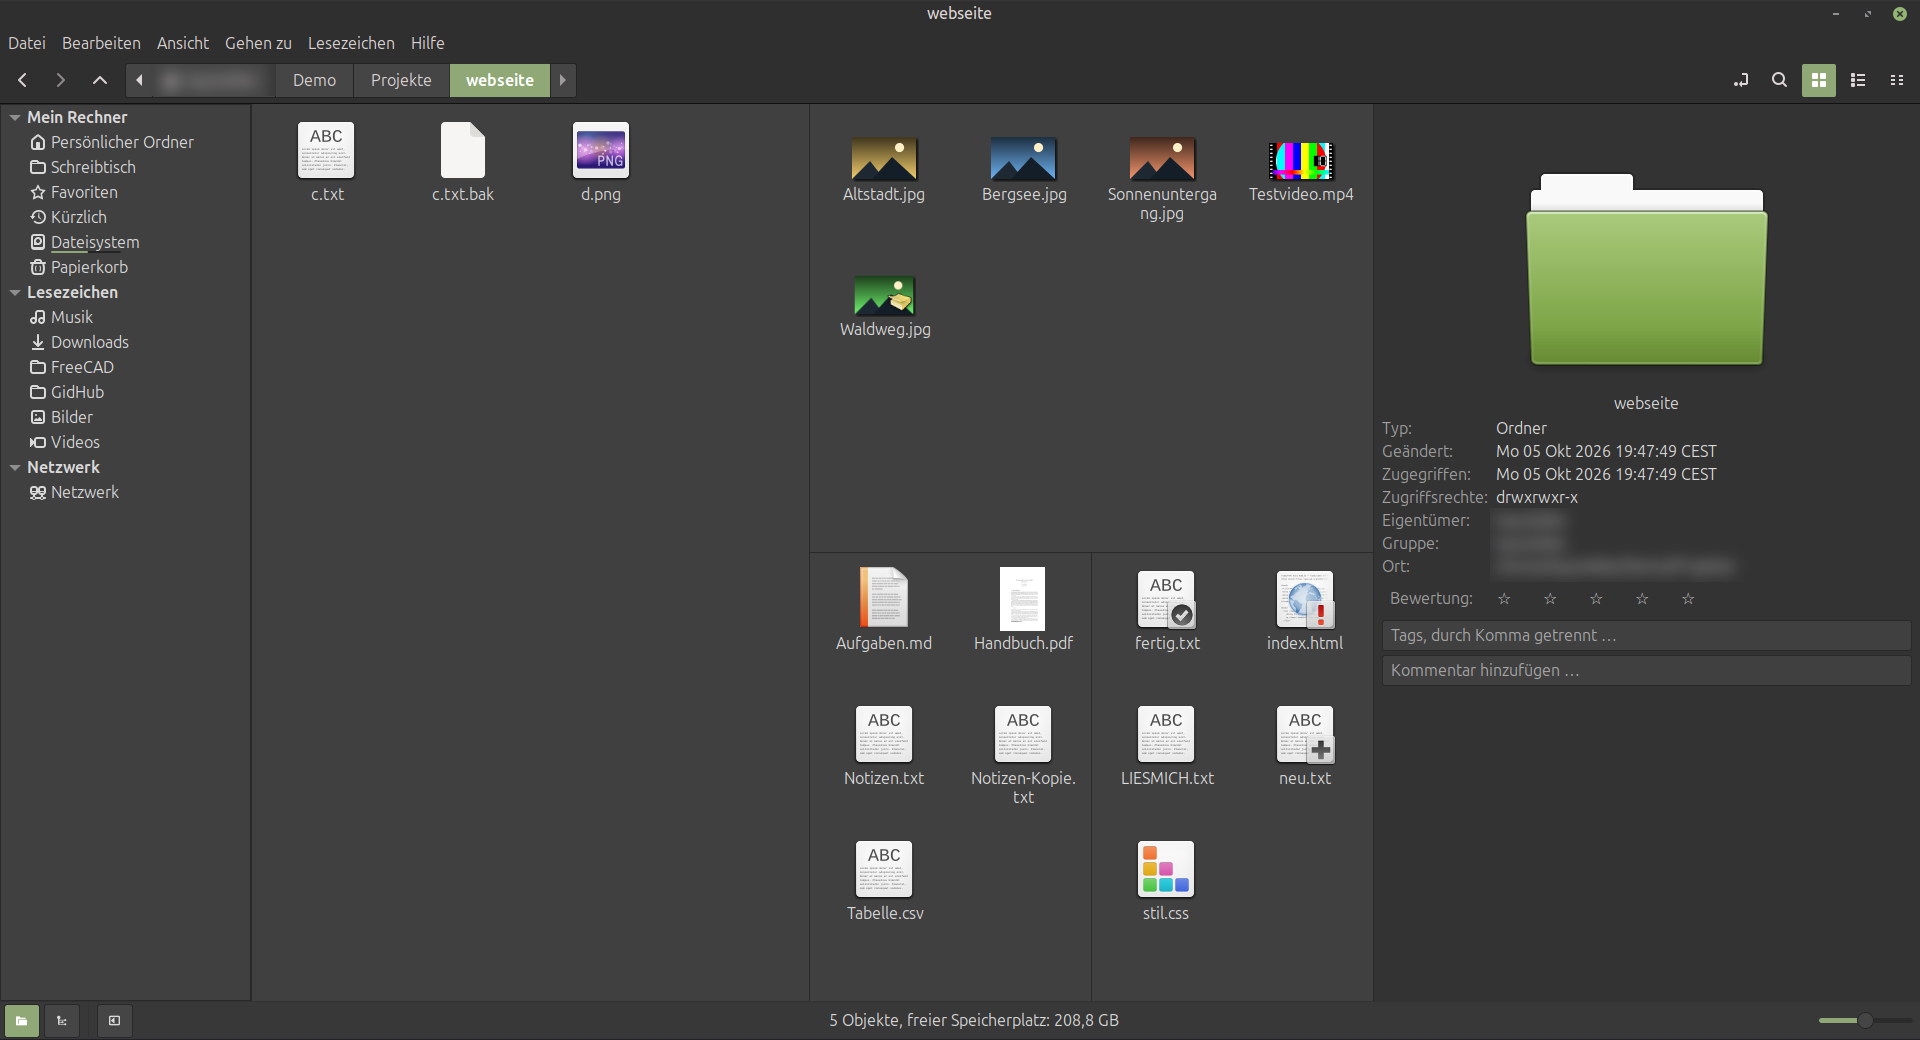
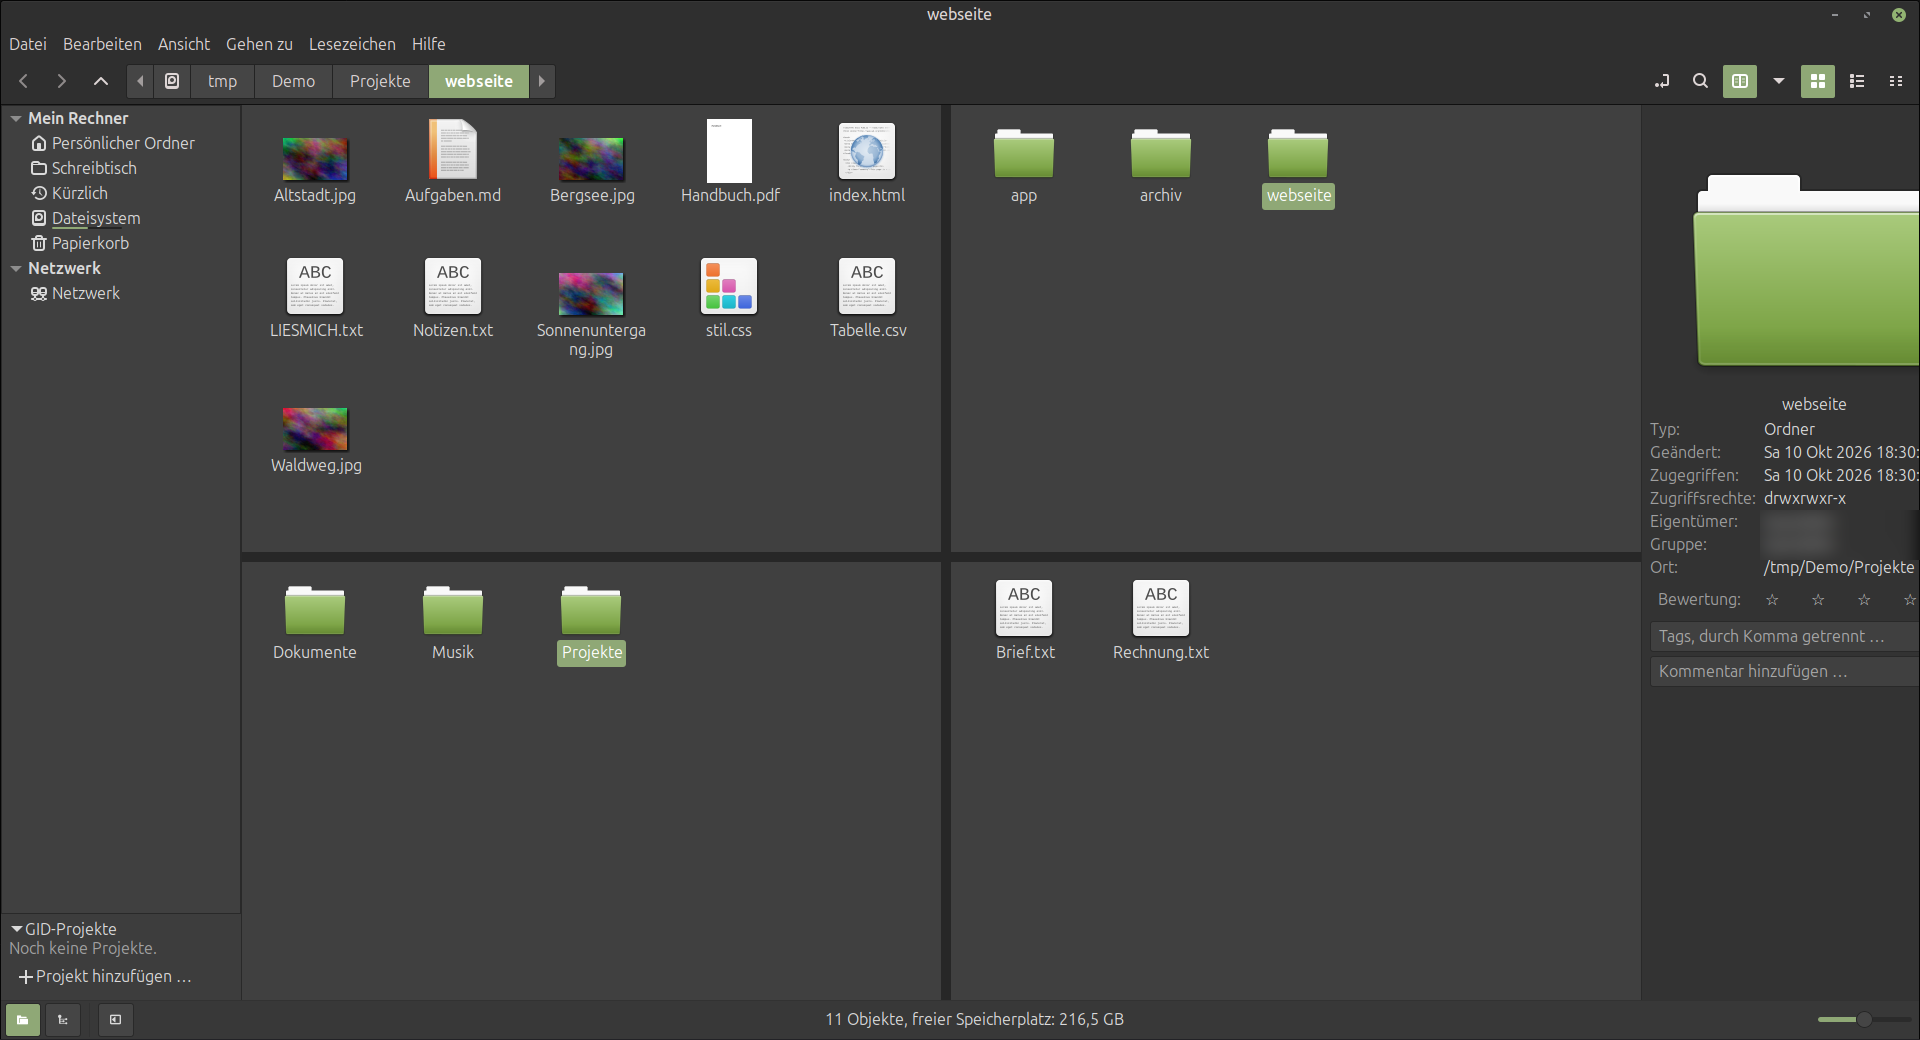
README: Bilder zur geteilten Ansicht und Übersicht neu, Layout-Auswahl ergänzt
Neu aufgenommen mit dem aktuellen Programm: Übersicht, Menü Geteilte Ansicht
(mit Layout-Untermenü), Vier Bereiche (mit Abstand), Layout-Auswahl (neu).
Text zu Layouts, Springen, Tauschen und Wiederherstellen ergänzt.

diff --git a/README.md b/README.md
@@ -174,11 +174,12 @@ Im Ordner selbst zeigen **Overlay-Symbole** den Git-Status jeder Datei (Häkchen
 
 ![Massenumbenennung mit Suchen, Ersetzen und Nummerierung](docs/bilder/panel-massenumbenennung.png)
 
-**Geteilte Ansicht und Arbeitsbereiche** – bis zu vier Bereiche nebeneinander; das gesamte Layout lässt sich als Arbeitsbereich speichern:
+**Geteilte Ansicht und Arbeitsbereiche** – bis zu vier Bereiche mit eigenen Orten und Reitern. Über den Pfeil neben dem Split-Knopf oder *Ansicht ▸ Geteilte Ansicht ▸ Layout* wählst du ein fertiges Layout: zwei oder drei Spalten, 2×2, einen großen Bereich mit zwei kleinen oder zwei Zeilen. Vorhandene Bereiche und ihre Reiter bleiben dabei erhalten. Mit Strg+Alt+1 bis 4 springst du direkt zu einem Bereich, mit Alt+Umschalt+Links zurück zum zuletzt aktiven, Strg+Alt+0 blendet die Bereichsnummern kurz ein und Strg+Alt+X tauscht den aktiven Bereich mit dem nächsten. Das zuletzt gewählte Layout wird beim Neustart wiederhergestellt (Einstellung „Tabs beim Start wiederherstellen"). Das gesamte Layout lässt sich außerdem als Arbeitsbereich speichern:
 
-| Geteilte Ansicht | Vier Bereiche |
+| Layout-Auswahl | Geteilte Ansicht |
 | --- | --- |
-| ![Menü Ansicht ▸ Geteilte Ansicht](docs/bilder/menue-geteilte-ansicht.png) | ![Vier Bereiche mit verschiedenen Ordnern](docs/bilder/ansicht-vier-bereiche.png) |
+| ![Layout-Auswahl mit fünf Kacheln: zwei Spalten, drei Spalten, 2×2, ein großer Bereich plus zwei, zwei Zeilen](docs/bilder/layout-auswahl.png) | ![Menü Ansicht ▸ Geteilte Ansicht mit dem Untermenü Layout](docs/bilder/menue-geteilte-ansicht.png) |
+| ![Vier Bereiche im Raster mit verschiedenen Ordnern und sichtbarem Abstand](docs/bilder/ansicht-vier-bereiche.png) | |
 | ![Menü Datei ▸ Arbeitsbereiche](docs/bilder/menue-arbeitsbereiche.png) | ![Arbeitsbereiche-Panel mit einem gespeicherten Arbeitsbereich](docs/bilder/panel-arbeitsbereiche.png) |
 
 **Gehe zu und Hilfe** – Verlauf, häufig verwendete Orte und Reiter im Menü „Gehe zu“, die Diagnose im Menü „Hilfe“:
